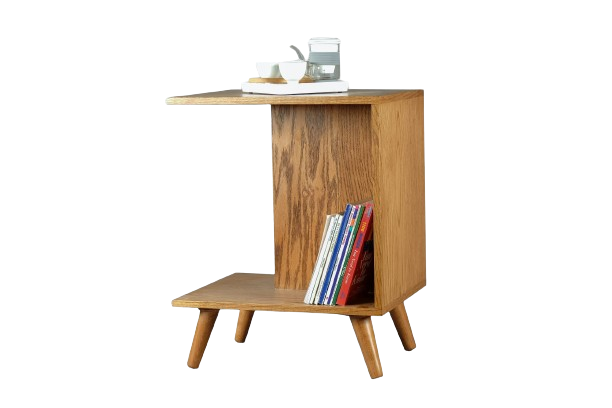
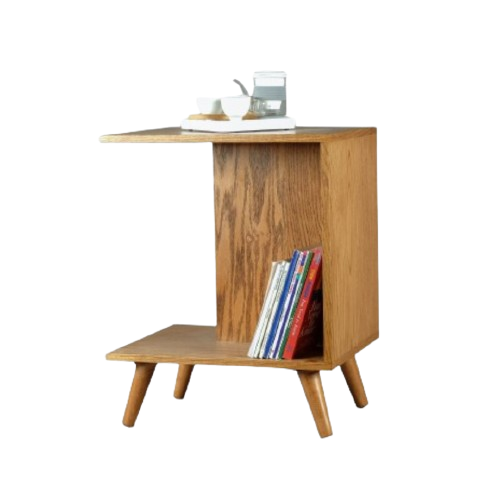
all products now have full preview images

Changed region(s): [[0.18, 0.0882, 0.78, 0.9412]]

diff --git a/src/Data/productsData.jsx b/src/Data/productsData.jsx
@@ -1,36 +1,65 @@
 import { v4 as uuid } from "uuid";
 import {
   bookshelf,
+  bookshelfThum1,
+  bookshelfThum2,
+  bookshelfThum3,
   canonCamera,
   canonCameraThum1,
   canonCameraThum2,
   canonCameraThum3,
   comfortChair,
+  comfortChairThum1,
+  comfortChairThum2,
+  comfortChairThum3,
   cpuCooler,
   cpuCoolerThum1,
   cpuCoolerThum2,
   cpuCoolerThum3,
   curology,
+  curologyThum1,
+  curologyThum2,
+  curologyThum4,
   dogFood,
+  dogFoodThum1,
+  dogFoodThum2,
+  dogFoodThum3,
   gamingLaptop,
+  gamingLaptopThum1,
+  gamingLaptopThum2,
+  gamingLaptopThum3,
   gamingMonitor,
   gamingMonitorThum1,
   gamingMonitorThum2,
+  gamingMonitorThum3,
   gucciBag,
   gucciBagThum1,
+  gucciBagThum3,
+  gucciBagThum4,
   kidsCar,
   kidsCarThum1,
+  kidsCarThum2,
+  kidsCarThum3,
   northCoat,
+  northCoatThum1,
+  northCoatThum2,
+  northCoatThum3,
   ps5Gamepad,
   ps5GamepadThum1,
   ps5GamepadThum2,
+  ps5GamepadThum3,
   satinJacket,
+  satinJacketThum1,
+  satinJacketThum2,
+  satinJacketThum3,
   soccerCleats,
   soccerCleatsThum1,
   soccerCleatsThum2,
   soccerCleatsThum3,
   usbGamepad,
   usbGamepadThum1,
+  usbGamepadThum2,
+  usbGamepadThum3,
   wiredKeyboard,
   wiredKeyboardThum1,
   wiredKeyboardThum2,
@@ -50,7 +79,12 @@ export const productsData = [
     for easy bubble free install & mess free removal Pressure sensitive.`,
     addedDate: "2024/2/2",
     img: ps5Gamepad,
-    otherImages: [ps5Gamepad, ps5GamepadThum1, ps5GamepadThum2],
+    otherImages: [
+      ps5Gamepad,
+      ps5GamepadThum1,
+      ps5GamepadThum2,
+      ps5GamepadThum3,
+    ],
     rate: 5,
     votes: 88,
     sold: 105,
@@ -97,7 +131,12 @@ export const productsData = [
     Monitor brings every detail to life with vibrant colors and crisp clarity.`,
     addedDate: "2024/3/15",
     img: gamingMonitor,
-    otherImages: [gamingMonitor, gamingMonitorThum1, gamingMonitorThum2],
+    otherImages: [
+      gamingMonitor,
+      gamingMonitorThum1,
+      gamingMonitorThum2,
+      gamingMonitorThum3,
+    ],
     rate: 5,
     votes: 99,
     sold: 463,
@@ -105,7 +144,7 @@ export const productsData = [
   },
   {
     shortName: "S-Series Chair",
-    name: "S-Series Comfort Chair ",
+    name: "S-Series Comfort Chair",
     type: "furniture",
     price: 400,
     discount: 25,
@@ -117,7 +156,12 @@ export const productsData = [
     space. Say goodbye to discomfort and hello to relaxation with the S-Series Comfort Chair.`,
     addedDate: "2024/1/1",
     img: comfortChair,
-    otherImages: [comfortChair],
+    otherImages: [
+      comfortChair,
+      comfortChairThum1,
+      comfortChairThum2,
+      comfortChairThum3,
+    ],
     rate: 4.5,
     votes: 99,
     sold: 211,
@@ -137,7 +181,7 @@ export const productsData = [
     outdoors or running errands in the city, The North Coat is sure to turn heads wherever you go.`,
     addedDate: "2024/3/7",
     img: northCoat,
-    otherImages: [northCoat],
+    otherImages: [northCoat, northCoatThum1, northCoatThum2, northCoatThum3],
     rate: 5,
     votes: 65,
     sold: 1405,
@@ -157,7 +201,7 @@ export const productsData = [
     traveling in first-class or hitting the gym, the Gucci Duffle Bag is the epitome of luxury and functionality.`,
     addedDate: "2022/9/15",
     img: gucciBag,
-    otherImages: [gucciBag, gucciBagThum1],
+    otherImages: [gucciBag, gucciBagThum1, gucciBagThum3, gucciBagThum4],
     rate: 3.5,
     votes: 159,
     sold: 1533,
@@ -198,7 +242,7 @@ export const productsData = [
     with any décor. Say goodbye to clutter and hello to sophistication with the Small Bookshelf.`,
     addedDate: "2023/12/22",
     img: bookshelf,
-    otherImages: [bookshelf],
+    otherImages: [bookshelf, bookshelfThum1, bookshelfThum2, bookshelfThum3],
     rate: 5,
     votes: 201,
     sold: 1602,
@@ -218,7 +262,7 @@ export const productsData = [
     happy, healthy dogs with Breed Dry Dog Food.`,
     addedDate: "2024/3/7",
     img: dogFood,
-    otherImages: [dogFood],
+    otherImages: [dogFood, dogFoodThum1, dogFoodThum2, dogFoodThum3],
     rate: 3,
     votes: 35,
     sold: 59,
@@ -263,15 +307,20 @@ export const productsData = [
     to lag and hello to smooth gameplay with the ASUS FHD Gaming Laptop.`,
     addedDate: "2024/3/7",
     img: gamingLaptop,
-    otherImages: [gamingLaptop],
-    rate: 0,
-    votes: 0,
-    sold: 100,
+    otherImages: [
+      gamingLaptop,
+      gamingLaptopThum1,
+      gamingLaptopThum2,
+      gamingLaptopThum3,
+    ],
+    rate: 4.5,
+    votes: 1049,
+    sold: 1792,
     id: uuid(),
   },
   {
     shortName: "Curology",
-    name: "Curology Product Set ",
+    name: "Curology Product Set",
     type: "curology",
     price: 700,
     discount: 0,
@@ -283,7 +332,7 @@ export const productsData = [
     dull, uneven skin and hello to a complexion that glows with health and vitality with the Curology Product Set.`,
     addedDate: "2024/3/7",
     img: curology,
-    otherImages: [curology],
+    otherImages: [curology, curologyThum1, curologyThum2, curologyThum4],
     rate: 5,
     votes: 325,
     sold: 100,
@@ -293,9 +342,9 @@ export const productsData = [
     shortName: "Electric Car",
     name: "Kids Electric Car",
     type: "electronics",
-    price: 39,
+    price: 1529,
     discount: 0,
-    afterDiscount: 39,
+    afterDiscount: 1529,
     description: `
     Spark your child's imagination with the Kids Electric Car. Designed for fun and excitement, this car features
     realistic details and effortless controls that make every ride an adventure. Whether they're cruising around
@@ -303,9 +352,9 @@ export const productsData = [
     of all ages. Say goodbye to boredom and hello to endless fun with the Kids Electric Car.`,
     addedDate: "2024/3/7",
     img: kidsCar,
-    otherImages: [kidsCar, kidsCarThum1],
-    rate: 0,
-    votes: 0,
+    otherImages: [kidsCar, kidsCarThum1, kidsCarThum2, kidsCarThum3],
+    rate: 3,
+    votes: 22,
     sold: 100,
     id: uuid(),
   },
@@ -348,7 +397,12 @@ export const productsData = [
     out on top. Say goodbye to laggy inputs and hello to smooth, seamless gameplay with the GP11 Shooter USB Gamepad.`,
     addedDate: "2024/3/7",
     img: usbGamepad,
-    otherImages: [usbGamepad, usbGamepadThum1],
+    otherImages: [
+      usbGamepad,
+      usbGamepadThum1,
+      usbGamepadThum2,
+      usbGamepadThum3,
+    ],
     rate: 5,
     votes: 64,
     sold: 100,
@@ -368,7 +422,12 @@ export const productsData = [
     goodbye to boring outerwear and hello to effortless style with the Quilted Satin Jacket.`,
     addedDate: "2024/3/7",
     img: satinJacket,
-    otherImages: [satinJacket],
+    otherImages: [
+      satinJacket,
+      satinJacketThum1,
+      satinJacketThum2,
+      satinJacketThum3,
+    ],
     rate: 4.5,
     votes: 55,
     sold: 100,

diff --git a/src/Assets/Products/ProductImgs.js b/src/Assets/Products/ProductImgs.js
@@ -1,29 +1,58 @@
+import dogFoodThum1 from "./breed-dry-dog-food/breed-dry-dog-food-thum1.png";
+import dogFoodThum2 from "./breed-dry-dog-food/breed-dry-dog-food-thum2.png";
+import dogFoodThum3 from "./breed-dry-dog-food/breed-dry-dog-food-thum3.png";
 import dogFood from "./breed-dry-dog-food/breed-dry-dog-food.png";
 import canonCameraThum1 from "./canon-camera/canon-camera-thum1.png";
 import canonCameraThum2 from "./canon-camera/canon-camera-thum2.png";
 import canonCameraThum3 from "./canon-camera/canon-camera-thum3.png";
 import canonCamera from "./canon-camera/canon-camera.png";
+import comfortChairThum1 from "./comfort-chair/comfort-chair-thum1.png";
+import comfortChairThum2 from "./comfort-chair/comfort-chair-thum2.png";
+import comfortChairThum3 from "./comfort-chair/comfort-chair-thum3.png";
 import comfortChair from "./comfort-chair/comfort-chair.png";
+import curologyThum1 from "./curology-product-set/curology-product-set-thum1.png";
+import curologyThum2 from "./curology-product-set/curology-product-set-thum2.png";
+import curologyThum4 from "./curology-product-set/curology-product-set-thum4.png";
 import curology from "./curology-product-set/curology-product-set.png";
+import gamingLaptopThum1 from "./gaming-laptop/gaming-laptop-thum1.png";
+import gamingLaptopThum2 from "./gaming-laptop/gaming-laptop-thum2.png";
+import gamingLaptopThum3 from "./gaming-laptop/gaming-laptop-thum3.png";
 import gamingLaptop from "./gaming-laptop/gaming-laptop.png";
 import gamingMonitorThum1 from "./gaming-monitor/gaming-monitor-thum1.png";
 import gamingMonitorThum2 from "./gaming-monitor/gaming-monitor-thum2.png";
+import gamingMonitorThum3 from "./gaming-monitor/gaming-monitor-thum3.png";
 import gamingMonitor from "./gaming-monitor/gaming-monitor.png";
 import gucciBagThum1 from "./gucci-duffle-bag/gucci-duffle-bag-thum1.png";
+import gucciBagThum3 from "./gucci-duffle-bag/gucci-duffle-bag-thum3.png";
+import gucciBagThum4 from "./gucci-duffle-bag/gucci-duffle-bag-thum4.png";
 import gucciBag from "./gucci-duffle-bag/gucci-duffle-bag.png";
 import kidsCarThum1 from "./kids-electric-car/kids-electric-car-thum1.png";
+import kidsCarThum2 from "./kids-electric-car/kids-electric-car-thum2.png";
+import kidsCarThum3 from "./kids-electric-car/kids-electric-car-thum3.png";
 import kidsCar from "./kids-electric-car/kids-electric-car.png";
+import northCoatThum1 from "./north-coat/north-coat-thum1.png";
+import northCoatThum2 from "./north-coat/north-coat-thum2.png";
+import northCoatThum3 from "./north-coat/north-coat-thum3.png";
 import northCoat from "./north-coat/north-coat.png";
 import ps5GamepadThum1 from "./ps5-gamepad/ps5-gamepad-thum1.png";
 import ps5GamepadThum2 from "./ps5-gamepad/ps5-gamepad-thum2.png";
+import ps5GamepadThum3 from "./ps5-gamepad/ps5-gamepad-thum3.png";
 import ps5Gamepad from "./ps5-gamepad/ps5-gamepad.png";
+import satinJacketThum1 from "./quilted-satin-jacket/quilted-satin-jacket-thum1.png";
+import satinJacketThum2 from "./quilted-satin-jacket/quilted-satin-jacket-thum2.png";
+import satinJacketThum3 from "./quilted-satin-jacket/quilted-satin-jacket-thum3.png";
 import satinJacket from "./quilted-satin-jacket/quilted-satin-jacket.png";
 import cpuCoolerThum1 from "./rgb-liquid-cpu-cooler/rgb-liquid-cpu-cooler-thum1.png";
 import cpuCoolerThum2 from "./rgb-liquid-cpu-cooler/rgb-liquid-cpu-cooler-thum2.png";
 import cpuCoolerThum3 from "./rgb-liquid-cpu-cooler/rgb-liquid-cpu-cooler-thum3.png";
 import cpuCooler from "./rgb-liquid-cpu-cooler/rgb-liquid-cpu-cooler.png";
+import bookshelfThum1 from "./small-bookshelf/small-bookshelf-thum1.png";
+import bookshelfThum2 from "./small-bookshelf/small-bookshelf-thum2.png";
+import bookshelfThum3 from "./small-bookshelf/small-bookshelf-thum3.png";
 import bookshelf from "./small-bookshelf/small-bookshelf.png";
 import usbGamepadThum1 from "./usb-gamepad/usb-gamepad-thum1.png";
+import usbGamepadThum2 from "./usb-gamepad/usb-gamepad-thum2.png";
+import usbGamepadThum3 from "./usb-gamepad/usb-gamepad-thum3.png";
 import usbGamepad from "./usb-gamepad/usb-gamepad.png";
 import wiredKeyboardThum1 from "./wired-keyboard/wired-keyboard-thum1.png";
 import wiredKeyboardThum2 from "./wired-keyboard/wired-keyboard-thum2.png";
@@ -37,36 +66,65 @@ import soccerCleats from "./zoom-soccer-cleats/zoom-soccer-cleats.png";
 
 export {
   bookshelf,
+  bookshelfThum1,
+  bookshelfThum2,
+  bookshelfThum3,
   canonCamera,
   canonCameraThum1,
   canonCameraThum2,
   canonCameraThum3,
   comfortChair,
+  comfortChairThum1,
+  comfortChairThum2,
+  comfortChairThum3,
   cpuCooler,
   cpuCoolerThum1,
   cpuCoolerThum2,
   cpuCoolerThum3,
   curology,
+  curologyThum1,
+  curologyThum2,
+  curologyThum4,
   dogFood,
+  dogFoodThum1,
+  dogFoodThum2,
+  dogFoodThum3,
   gamingLaptop,
+  gamingLaptopThum1,
+  gamingLaptopThum2,
+  gamingLaptopThum3,
   gamingMonitor,
   gamingMonitorThum1,
   gamingMonitorThum2,
+  gamingMonitorThum3,
   gucciBag,
   gucciBagThum1,
+  gucciBagThum3,
+  gucciBagThum4,
   kidsCar,
   kidsCarThum1,
+  kidsCarThum2,
+  kidsCarThum3,
   northCoat,
+  northCoatThum1,
+  northCoatThum2,
+  northCoatThum3,
   ps5Gamepad,
   ps5GamepadThum1,
   ps5GamepadThum2,
+  ps5GamepadThum3,
   satinJacket,
+  satinJacketThum1,
+  satinJacketThum2,
+  satinJacketThum3,
   soccerCleats,
   soccerCleatsThum1,
   soccerCleatsThum2,
   soccerCleatsThum3,
   usbGamepad,
   usbGamepadThum1,
+  usbGamepadThum2,
+  usbGamepadThum3,
   wiredKeyboard,
   wiredKeyboardThum1,
   wiredKeyboardThum2,
